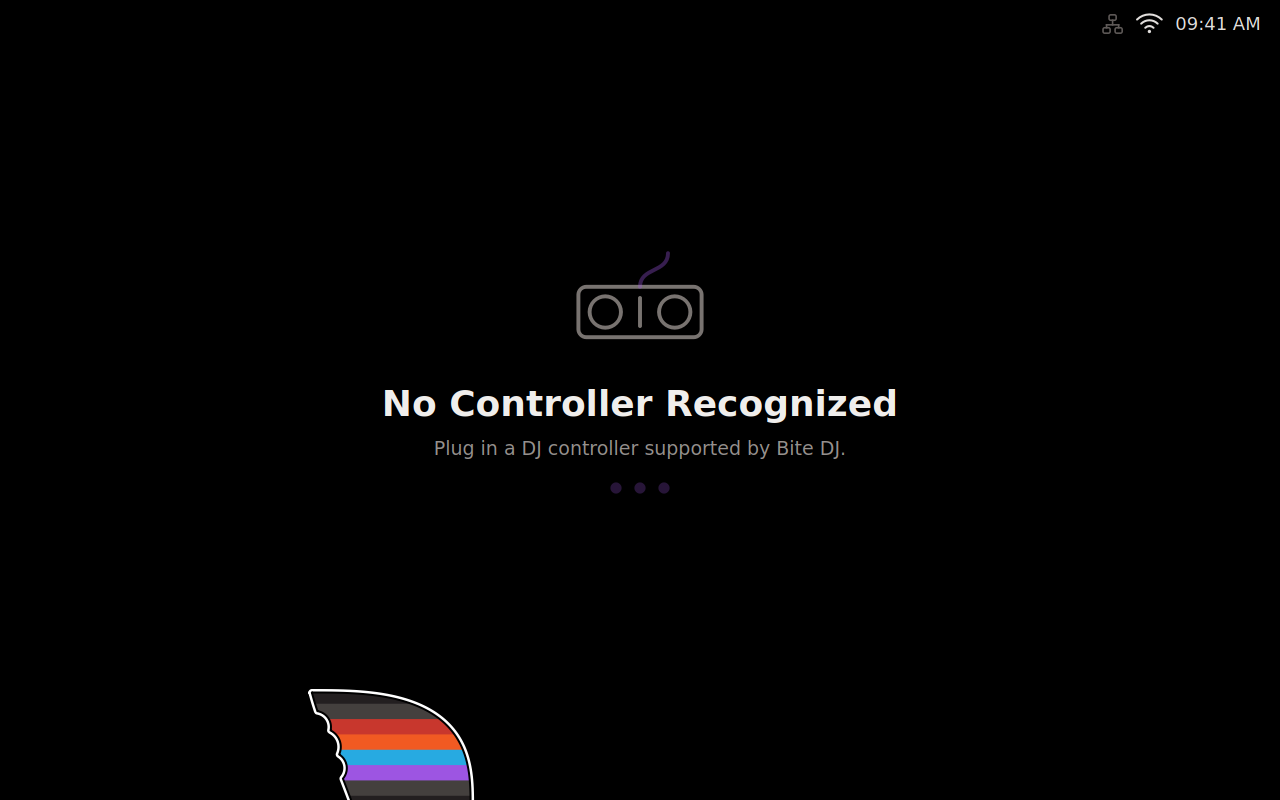
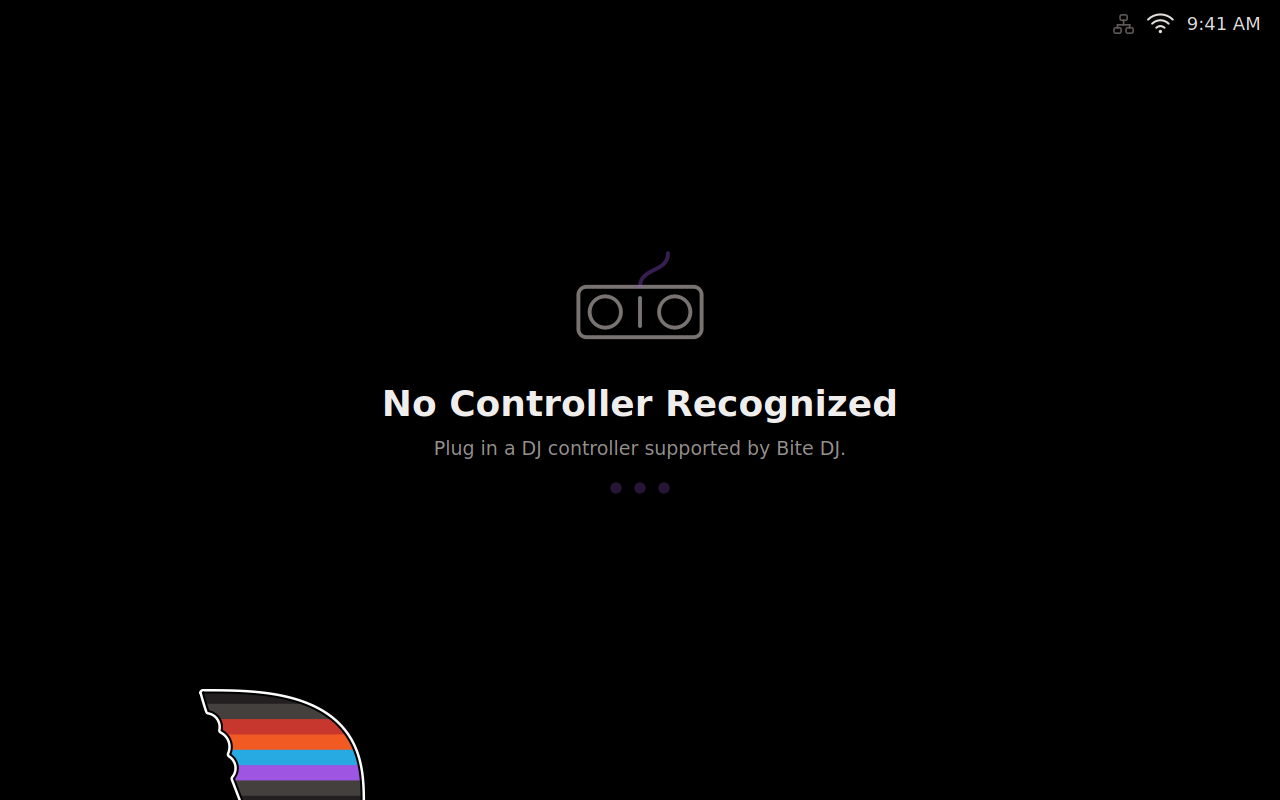
Use generic names: example user dj, hostname raspberrypi; refresh screenshots

Changed region(s): [[0.1562, 0.8438, 0.375, 1.0], [0.875, 0.0, 0.9375, 0.0625]]

diff --git a/tests/test_unified.py b/tests/test_unified.py
@@ -102,11 +102,11 @@ class RuntimeTests(unittest.TestCase):
 
     def test_start_exact_command_without_forced_scaling(self):
         with tempfile.TemporaryDirectory() as folder, patch.object(rt, "RUN", Path(folder)):
-            with patch.object(rt, "matching", return_value={}), patch.object(rt, "app_path", return_value="/home/xdj/bitedj/build/mixxx"), \
+            with patch.object(rt, "matching", return_value={}), patch.object(rt, "app_path", return_value="/home/dj/bitedj/build/mixxx"), \
                  patch("os.access", return_value=True), patch.object(rt, "config", return_value={}), \
                  patch.object(rt, "session_env", return_value={"QT_QPA_PLATFORM": "wayland"}), patch.object(rt, "spawn") as spawn:
                 rt.start_bitedj()
-                self.assertEqual(spawn.call_args.args[0], ["/home/xdj/bitedj/build/mixxx", "--fullScreen"])
+                self.assertEqual(spawn.call_args.args[0], ["/home/dj/bitedj/build/mixxx", "--fullScreen"])
                 self.assertNotIn("QT_QPA_PLATFORM", spawn.call_args.kwargs["env"])
                 self.assertNotIn("QT_SCALE_FACTOR", spawn.call_args.kwargs["env"])
 

diff --git a/tests/test_release_134.py b/tests/test_release_134.py
@@ -24,7 +24,7 @@ class CompatibilityTests(unittest.TestCase):
     def setUp(self):
         self.temp = tempfile.TemporaryDirectory()
         self.root = Path(self.temp.name)
-        self.home = self.root / "home/xdj"
+        self.home = self.root / "home/dj"
         self.home.mkdir(parents=True)
         put(self.root / "etc/os-release", 'ID=debian\nVERSION_CODENAME=trixie\n')
         for command in ("labwc", "wf-panel-pi", "pcmanfm-pi"):
@@ -88,7 +88,7 @@ class CompatibilityTests(unittest.TestCase):
     def test_installer_stops_before_sudo_when_preflight_fails(self):
         bin_dir = self.root / "bin"
         log = self.root / "calls"
-        put(bin_dir / "id", "#!/bin/sh\ncase \"$1\" in -u) echo 1000;; -un) echo xdj;; esac\n", 0o755)
+        put(bin_dir / "id", "#!/bin/sh\ncase \"$1\" in -u) echo 1000;; -un) echo dj;; esac\n", 0o755)
         put(bin_dir / "python3", f"#!/bin/sh\nprintf 'preflight\\n' >> '{log}'\nexit 2\n", 0o755)
         put(bin_dir / "sudo", f"#!/bin/sh\nprintf 'SUDO\\n' >> '{log}'\nexit 99\n", 0o755)
         script = Path(__file__).resolve().parents[1] / "install.sh"

diff --git a/README.md b/README.md
@@ -30,7 +30,7 @@ BiteDJ is Team Deckshark's DJ software, based on [Mixxx](https://github.com/mixx
 ## Quick start
 
 1. **Set up the Pi.** Use [Raspberry Pi Imager](https://www.raspberrypi.com/software/) to install **Raspberry Pi OS with desktop** (Trixie). Boot it, connect to your network, and turn on SSH if you'll install remotely.
-2. **Build BiteDJ on the Pi.** These are the steps used on MiniTab (Raspberry Pi 4, 4 GB). For anything official, see Team Deckshark's [BiteDJ repository](https://github.com/TeamDeckshark/bitedj).
+2. **Build BiteDJ on the Pi.** These steps were tested on a Raspberry Pi 4 (4 GB). For anything official, see Team Deckshark's [BiteDJ repository](https://github.com/TeamDeckshark/bitedj).
 
    ```bash
    sudo apt update && sudo apt install -y git
@@ -63,20 +63,20 @@ python3 /opt/bitedj-launcher/bitedj_launcher.py --list-controllers
 
 ## Installation from Downloads
 
-Save `BiteDJ-Launcher-1.3.4.zip` in the Pi's `/home/xdj/Downloads` folder. Use the newly delivered ZIP, not an older folder or V3.2 archive. Save and close your DJ work before installation and do not switch modes while installation is running.
+Save `BiteDJ-Launcher-1.3.4.zip` in the Pi's `~/Downloads` folder (for the example user `dj`, that's `/home/dj/Downloads`). Use the newly delivered ZIP, not an older folder or V3.2 archive. Save and close your DJ work before installation and do not switch modes while installation is running.
 
 If you download the ZIP on another computer, run these commands there, not inside the Pi SSH session. This example assumes that computer also saves downloads under `$HOME/Downloads`:
 
 ```bash
-ssh xdj@MiniTab 'mkdir -p "/home/xdj/Downloads"' &&
+ssh dj@raspberrypi.local 'mkdir -p "/home/dj/Downloads"' &&
 scp "$HOME/Downloads/BiteDJ-Launcher-1.3.4.zip" \
-  xdj@MiniTab:/home/xdj/Downloads/ &&
-ssh xdj@MiniTab
+  dj@raspberrypi.local:/home/dj/Downloads/ &&
+ssh dj@raspberrypi.local
 ```
 
-If hostname resolution is unavailable, replace `MiniTab` with the Pi's known IP address. Do not rename an older ZIP to match the new filename.
+Replace `dj` with your Pi's username and `raspberrypi.local` with its hostname, or use its IP address. Do not rename an older ZIP to match the new filename.
 
-Run as the normal user (`xdj`), not as root:
+Run as your normal user (for example `dj`), not as root:
 
 ```bash
 mkdir -p "$HOME/Bite-Launcher-1.3.4" &&
@@ -122,7 +122,7 @@ This inspects compatibility without installing.
 
 - **No supported controller:** `No Controller Recognized`, the helper text `Plug in a DJ controller supported by Bite DJ.`, and no Launch button.
 - **Supported controller:** `Controller Recognized`, controller name, and the existing purple Launch button.
-- **Launch command:** `/home/xdj/bitedj/build/mixxx --fullScreen`. Do not start duplicate instances.
+- **Launch command:** `~/bitedj/build/mixxx --fullScreen`. Do not start duplicate instances.
 - **Original visual design:** unchanged fin geometry, bite marks, colors, outlines, slow movement, four-second pause, and default 30 FPS. Animation/network timers pause when BiteDJ is running and the launcher is inactive.
 - **No process-based blanking:** detecting a BiteDJ process does not hide or blank the launcher. A fresh painted/exposed-window acknowledgement remains required before suppressing an existing desktop.
 - **Tray:** live clock and network indicators; network details, Switch to Pi Desktop, Shut Down, and Reboot. Power actions require confirmation.
@@ -164,7 +164,7 @@ Uninstall checks for conflicts first and removes only the launcher's own files. 
 
 Automated tests mock power requests and system changes.
 
-Release validation: 61 automated tests passed. The headless Wayland probe passed waiting, recognized, existing-BiteDJ-process, and instance-reuse checks. Installed on MiniTab (Raspberry Pi 4, Trixie), where the FLX4 hold macros were confirmed working.
+Release validation: 61 automated tests passed. The headless Wayland probe passed waiting, recognized, existing-BiteDJ-process, and instance-reuse checks. Installed on a Raspberry Pi 4 running Trixie, where the FLX4 hold macros were confirmed working.
 
 ```bash
 QT_QPA_PLATFORM=offscreen python3 -m unittest discover -s tests -v
